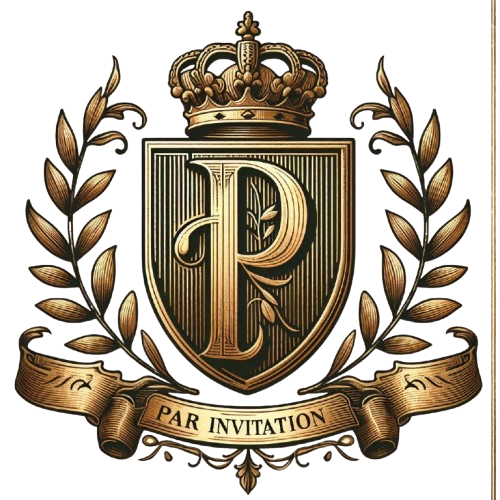
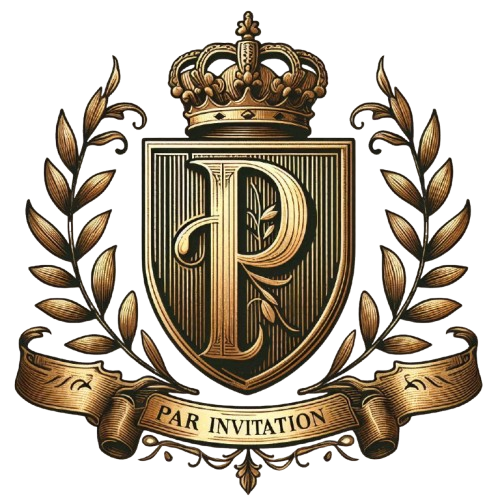
copy(landing): remove "A quiet room" calligraphy + refresh crest-3.png
Master: "loose The quiet room thing... it sounds creepy"

Removed the handwritten calligraphy entirely. "A quiet room"
on a dating brand carries interrogation-room / padded-cell
echoes that fight against the warmth we want. The crest now
sits alone as the brand seal.

What got removed:
- The Great Vibes cursive SVG block from LoginScreen.tsx
- All .login-hero-calligraphy + .calli-text* CSS (styles +
  keyframes for prive-calli-stroke and prive-calli-fill)
- The Great Vibes Google Font import from index.html (no
  longer used anywhere)
- heroCalligraphy i18n key from uiText.ts (EN + RO)

Also bundles:
- Updated crest-3.png (Master replaced the file with a newer
  version — 371KB)
- Cache-bust query param ?v=2 on the crest src so browsers
  fetch the new PNG immediately rather than serving a stale
  cache

The hero now reads, top to bottom:
  Édition · 2026                 Language picker
                  [ CREST ]
                    PRIVÉ
            Members only · By design
   Where the noise of every other dating app falls away
                Request access
              Redeem your invite
                   Sign in

Editorial silence with one anchor (the crest), one wordmark,
one italic line. Nothing surplus.

diff --git a/src/screens/LoginScreen.css b/src/screens/LoginScreen.css
@@ -66,78 +66,18 @@
   to   { transform: scale(1.012); }
 }
 
-/* The calligraphy — Great Vibes cursive rendering the manifesto
-   opening. Inline below the crest, sized to fit comfortably in
-   the centered column. */
-.login-hero-calligraphy {
-  width: clamp(280px, 32vw, 460px);
-  height: auto;
-  pointer-events: none;
-  filter: drop-shadow(0 0 12px rgba(244, 220, 168, 0.22));
-}
-
-.login-hero-calligraphy .calli-text {
-  font-family: 'Great Vibes', 'Allura', 'Dancing Script', cursive;
-  font-size: 68px;
-  letter-spacing: 0.01em;
-}
-
-/* Calligraphy ONE-TIME reveal on page load (was cyclic 14s before;
-   with the crest as the centerpiece, a cyclic redraw competes for
-   attention). Now: stroke draws once over ~3 seconds starting at
-   1.6s (after the crest has settled). The gold ink fill fades in
-   right as the outline completes. Both stay visible forever after. */
-.login-hero-calligraphy .calli-text-stroke {
-  /* Generous dash length covers any glyph outline at 68px. */
-  stroke-dasharray: 4000;
-  stroke-dashoffset: 4000;
-  opacity: 0;
-  animation: prive-calli-stroke 3s ease-out 1.6s both;
-  will-change: stroke-dashoffset, opacity;
-}
-@keyframes prive-calli-stroke {
-  0%   { stroke-dashoffset: 4000; opacity: 0; }
-  4%   { opacity: 1; }
-  100% { stroke-dashoffset: 0;    opacity: 1; }
-}
-
-.login-hero-calligraphy .calli-text-fill {
-  opacity: 0;
-  animation: prive-calli-fill 2.2s ease-out 3.4s both;
-  will-change: opacity;
-}
-@keyframes prive-calli-fill {
-  from { opacity: 0; }
-  to   { opacity: 0.92; }
-}
-
-/* prefers-reduced-motion — freeze a static, fully-rendered version. */
+/* prefers-reduced-motion — freeze the crest at rest (no breath). */
 @media (prefers-reduced-motion: reduce) {
   .login-hero-seal,
   .login-hero-crest {
     animation: none;
   }
-  .login-hero-calligraphy .calli-text-fill {
-    animation: none;
-    opacity: 0.92;
-  }
-  .login-hero-calligraphy .calli-text-stroke {
-    animation: none;
-    stroke-dashoffset: 0;
-    opacity: 0.5;
-  }
 }
 
-/* Narrow phones — scale crest + cursive down so the column fits. */
+/* Narrow phones — scale the crest down so the column fits. */
 @media (max-width: 540px) {
   .login-hero-crest {
     width: clamp(150px, 36vw, 200px);
-  }
-  .login-hero-calligraphy {
-    width: min(94vw, 360px);
-  }
-  .login-hero-calligraphy .calli-text {
-    font-size: 50px;
   }
 }
 

diff --git a/src/screens/LoginScreen.tsx b/src/screens/LoginScreen.tsx
@@ -166,52 +166,19 @@ export const LoginScreen: React.FC<LoginScreenProps> = ({
             rhythm. Each section fades in with a staggered delay so the
             page reads as it appears, like an invitation being unfolded. */}
         <section className="login-hero">
-          {/* The house seal — crest above + handwritten manifesto fragment.
-              First thing the eye lands on. */}
+          {/* The house seal — the crest sits alone as the visual anchor.
+              The "A quiet room, by invitation only" calligraphy was removed
+              (2026-05-25 evening) — Master flagged that "quiet room" lands
+              creepy on a dating brand (interrogation room / padded cell
+              echoes). The crest now carries the brand statement by itself. */}
           <div className="login-hero-seal">
             <img
               className="login-hero-crest"
-              src="./crests/crest-3.png"
+              src="./crests/crest-3.png?v=2"
               alt=""
               loading="eager"
               decoding="async"
             />
-            <svg
-              className="login-hero-calligraphy"
-              viewBox="0 0 1200 140"
-              preserveAspectRatio="xMidYMid meet"
-              aria-hidden="true"
-            >
-              <defs>
-                <linearGradient id="calliGold" x1="0%" y1="0%" x2="100%" y2="0%">
-                  <stop offset="0%" stopColor="#cfad61" />
-                  <stop offset="50%" stopColor="#f4dca8" />
-                  <stop offset="100%" stopColor="#cfad61" />
-                </linearGradient>
-              </defs>
-              <text
-                x="600"
-                y="90"
-                textAnchor="middle"
-                className="calli-text calli-text-fill"
-                fill="url(#calliGold)"
-              >
-                {copy.auth.heroCalligraphy}
-              </text>
-              <text
-                x="600"
-                y="90"
-                textAnchor="middle"
-                className="calli-text calli-text-stroke"
-                fill="none"
-                stroke="url(#calliGold)"
-                strokeWidth="0.6"
-                strokeLinecap="round"
-                strokeLinejoin="round"
-              >
-                {copy.auth.heroCalligraphy}
-              </text>
-            </svg>
           </div>
 
           {/* The masthead — PRIVÉ wordmark + small-caps slogan. */}

diff --git a/index.html b/index.html
@@ -27,7 +27,7 @@
     <link rel="preconnect" href="https://fonts.googleapis.com" />
     <link rel="preconnect" href="https://fonts.gstatic.com" crossorigin />
     <link
-      href="https://fonts.googleapis.com/css2?family=Bodoni+Moda:wght@700;800;900&family=Cinzel:wght@600;700&family=Cormorant+Garamond:ital,wght@1,400;1,500&family=Great+Vibes&display=swap"
+      href="https://fonts.googleapis.com/css2?family=Bodoni+Moda:wght@700;800;900&family=Cinzel:wght@600;700&family=Cormorant+Garamond:ital,wght@1,400;1,500&display=swap"
       rel="stylesheet"
     />
   </head>

diff --git a/src/constants/uiText.ts b/src/constants/uiText.ts
@@ -40,7 +40,6 @@ export const UI_TEXT = {
       // visual space with meaning rather than decoration. Reads like
       // the opening line of a journal, not marketing copy.
       heroManifesto: 'A quiet room, by invitation only. Where the noise of every other dating app falls away — and what remains is rare: thoughtful matches, written introductions, and the patience to find someone real.',
-      heroCalligraphy: 'A quiet room, by invitation only',
       // Three equal access paths — same size + style so no visitor type
       // is implicitly demoted. Parallel verb-phrases.
       heroRequestAccess: 'Request access',
@@ -601,7 +600,6 @@ export const UI_TEXT = {
       heroTagline: 'Unde zgomotul aplicațiilor de întâlniri se stinge',
       // Paragraf editorial — proză italică mică care umple golul vizual cu sens.
       heroManifesto: 'O cameră liniștită, doar pe bază de invitație. Unde zgomotul aplicațiilor de întâlniri se stinge — și rămâne doar ce contează: potriviri atente, introduceri scrise cu grijă, și răbdarea de a cunoaște pe cineva real.',
-      heroCalligraphy: 'O cameră liniștită, doar pe invitație',
       // Trei căi egale — toate la fel de respectate la intrare.
       heroRequestAccess: 'Solicită acces',
       heroHaveInvite: 'Folosește invitația',